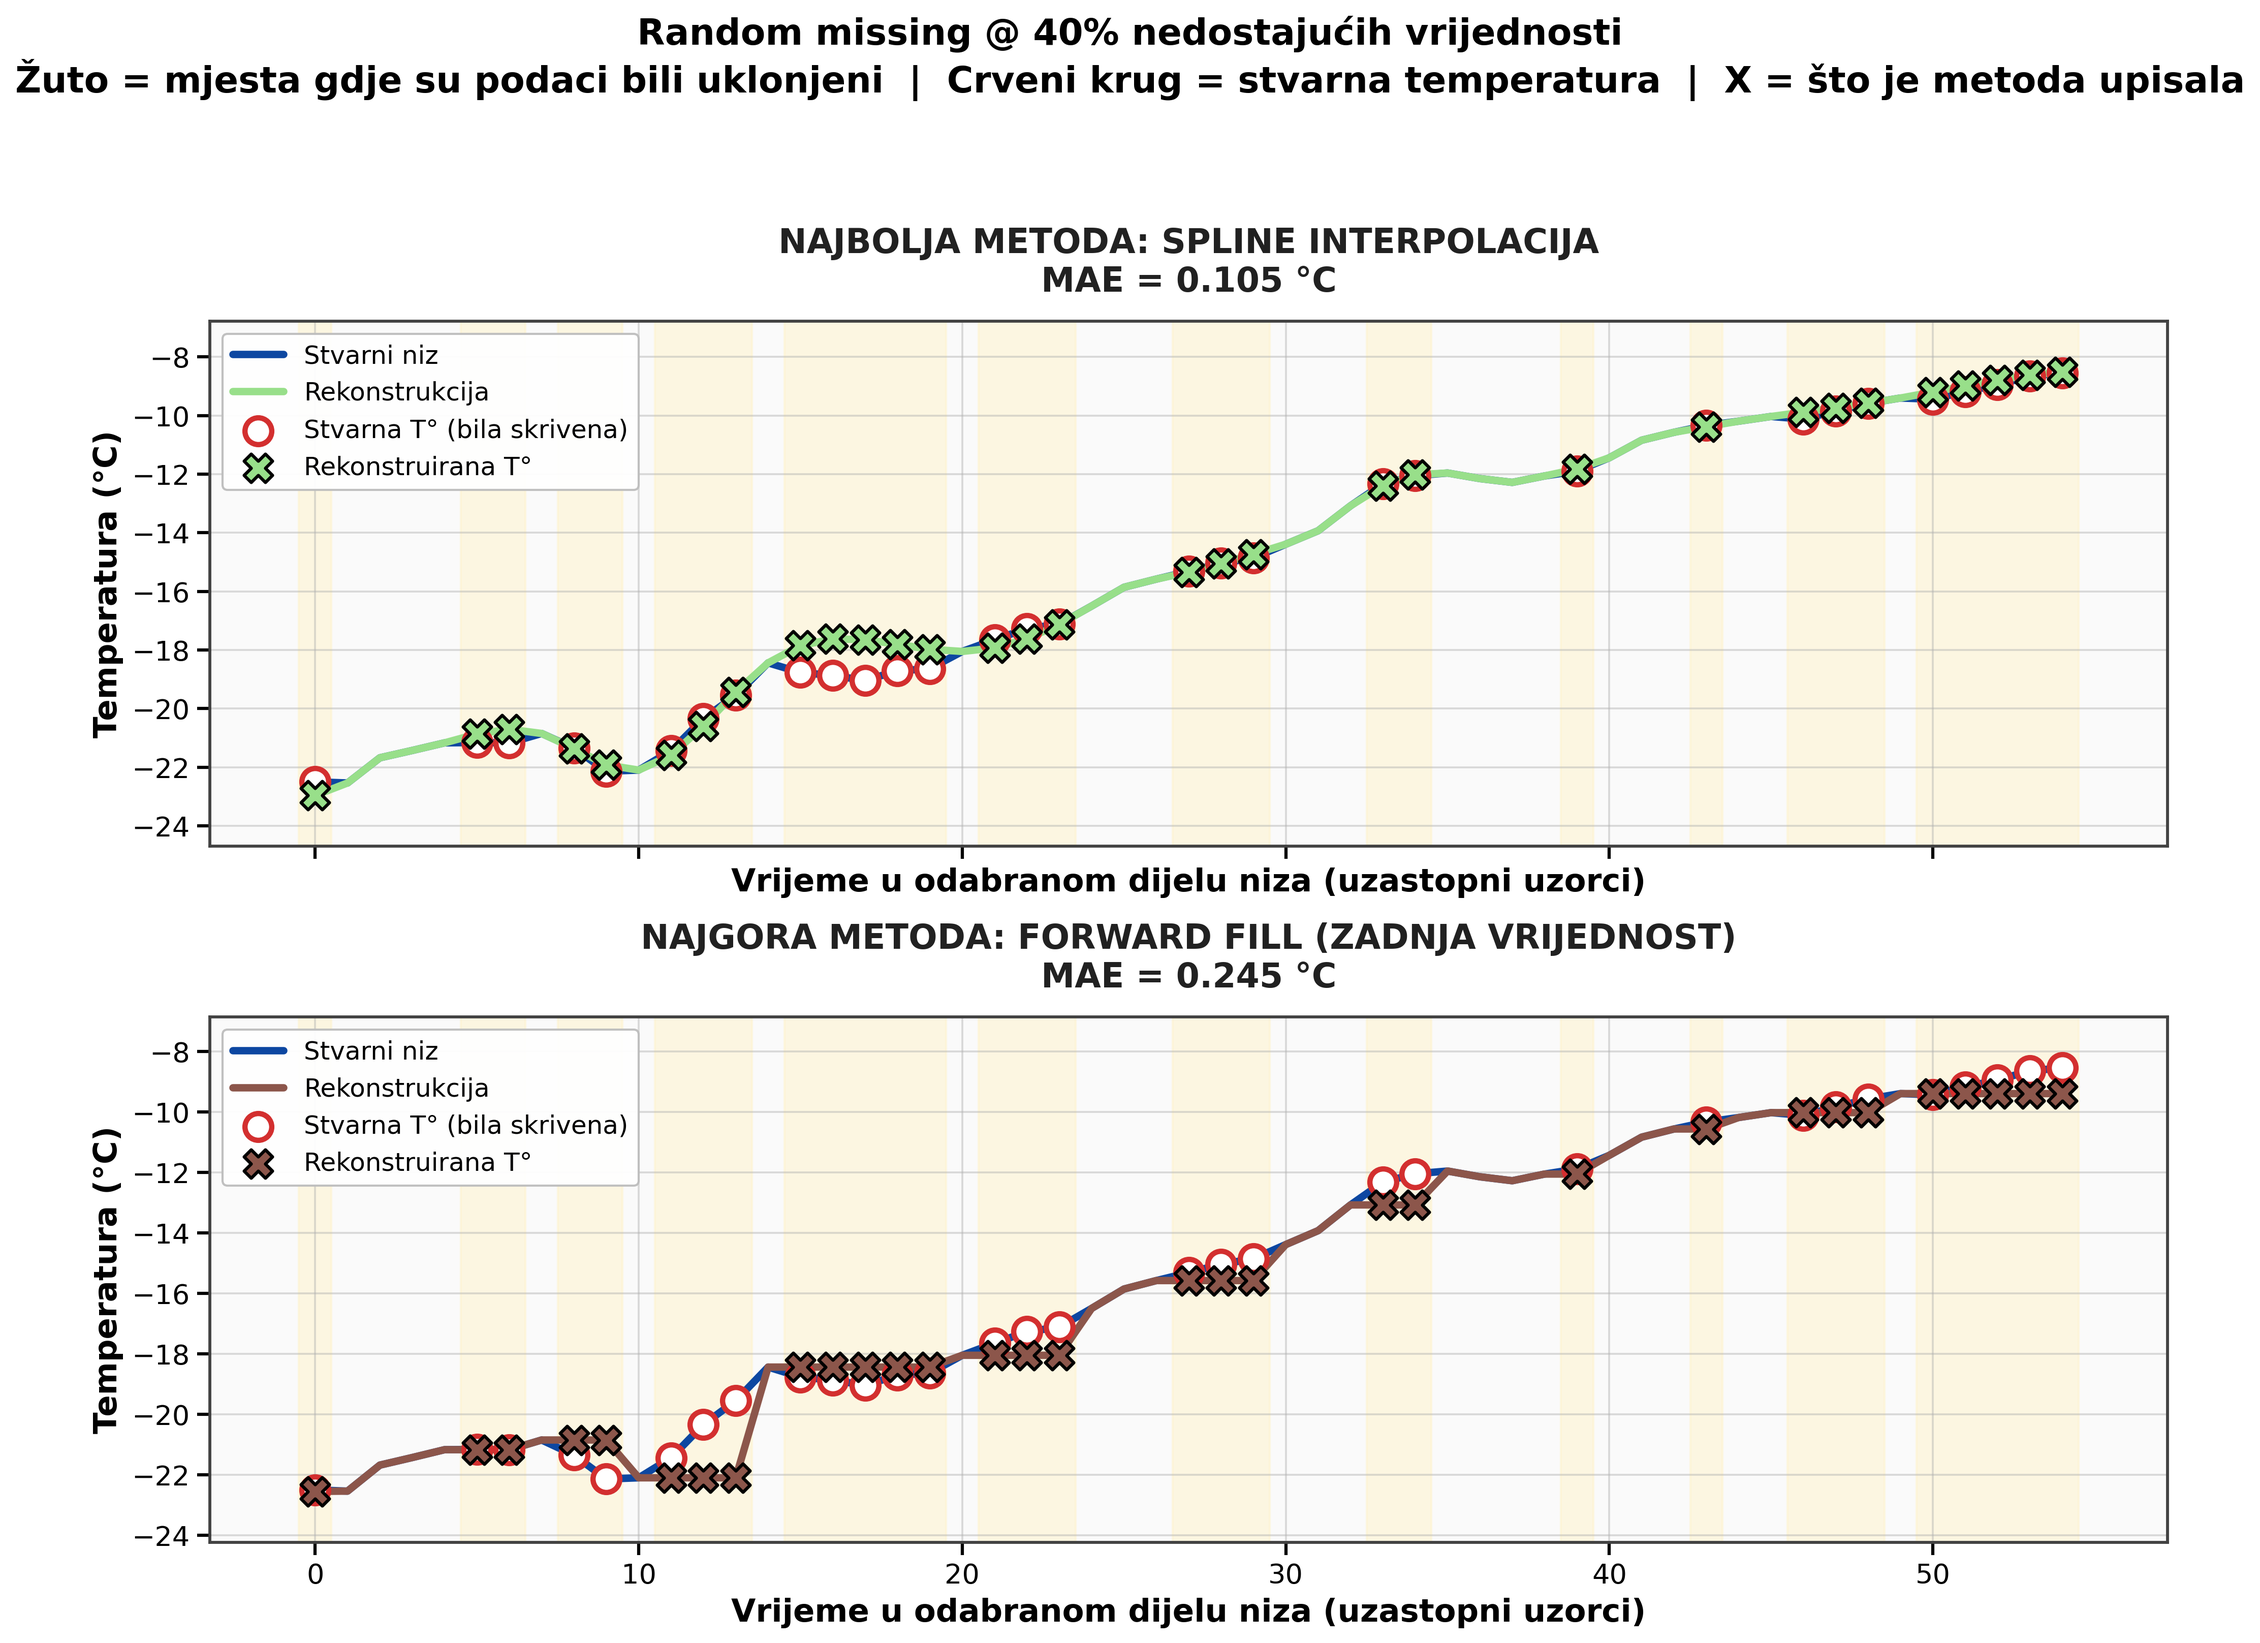
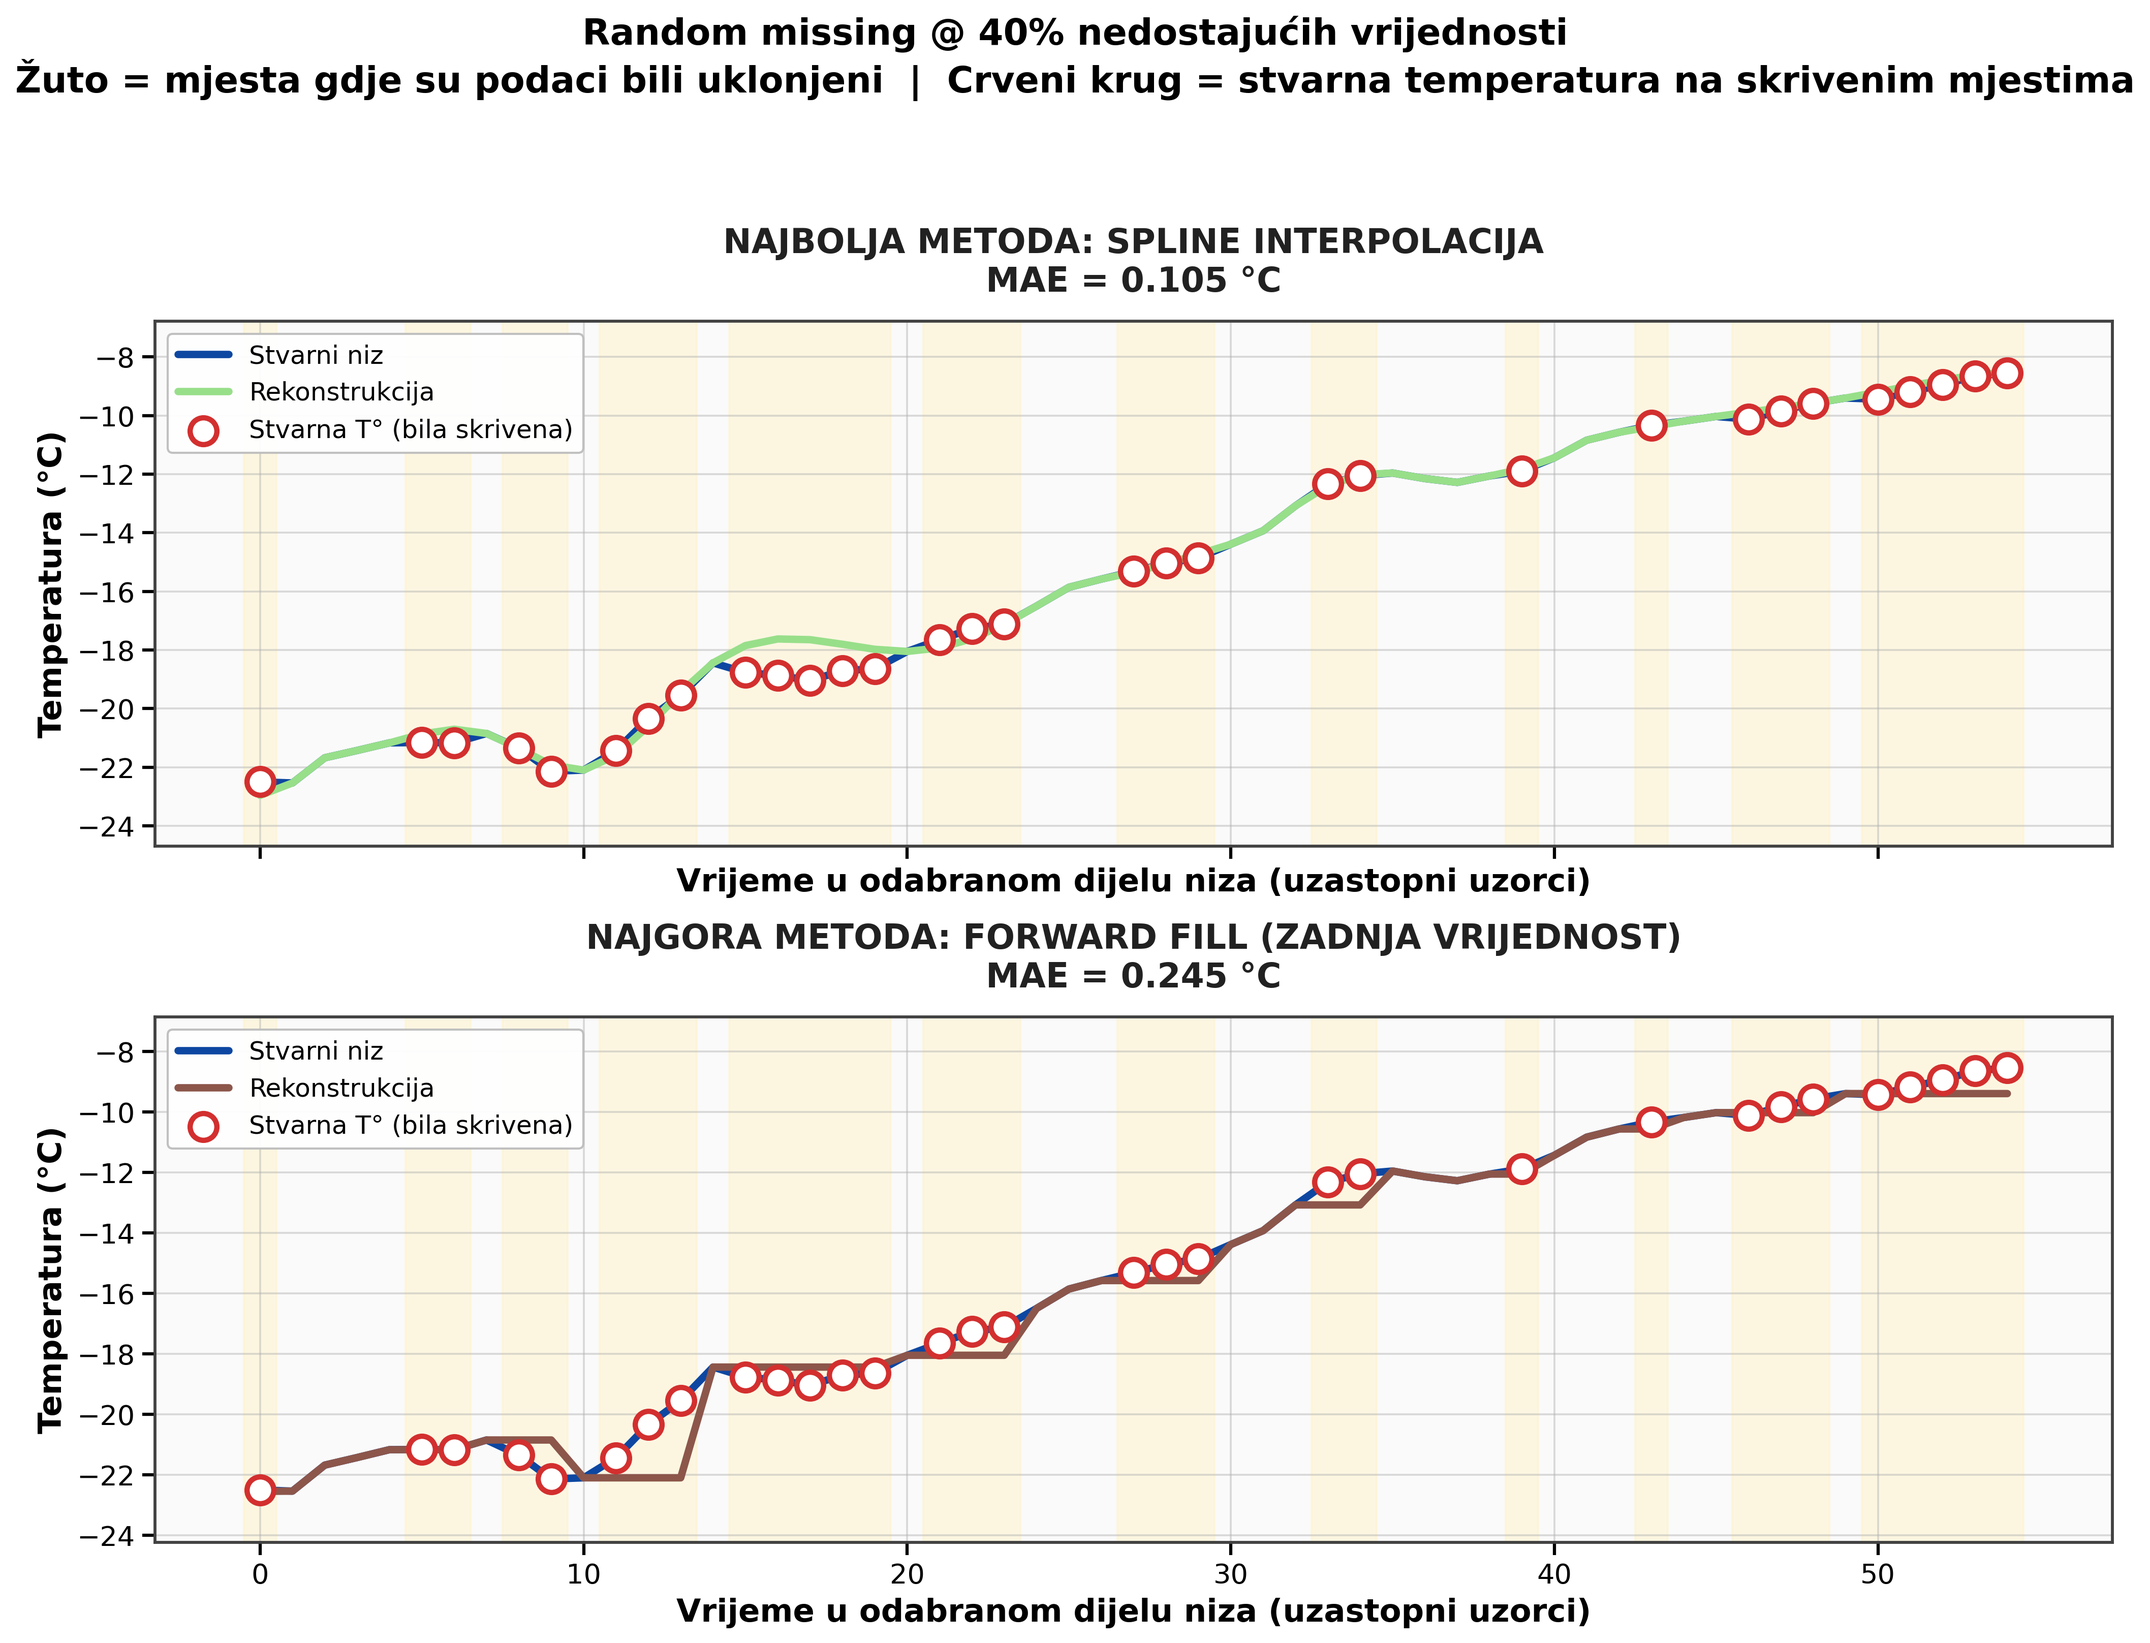
Auto-sync: 2026-09-04 06:34

diff --git a/scripts/report.py b/scripts/report.py
@@ -582,17 +582,6 @@ def plot_reconstruction_presentation_on_ax(
             label="Stvarna T° (bila skrivena)",
             zorder=6,
         )
-        ax.scatter(
-            x[masked_idx],
-            recon[masked_idx],
-            s=180,
-            c=method_color,
-            edgecolors="black",
-            linewidths=1.5,
-            marker="X",
-            label="Rekonstruirana T°",
-            zorder=7,
-        )
 
     y_min = float(np.min([orig.min(), recon.min()]))
     y_max = float(np.max([orig.max(), recon.max()]))
@@ -675,7 +664,7 @@ def plot_best_worst_reconstruction_clear(
 
     fig.suptitle(
         f"{scenario_label} @ {rate * 100:.0f}% nedostajućih vrijednosti\n"
-        "Žuto = mjesta gdje su podaci bili uklonjeni  |  Crveni krug = stvarna temperatura  |  X = što je metoda upisala",
+        "Žuto = mjesta gdje su podaci bili uklonjeni  |  Crveni krug = stvarna temperatura na skrivenim mjestima",
         fontsize=17,
         fontweight="bold",
         y=0.98,
